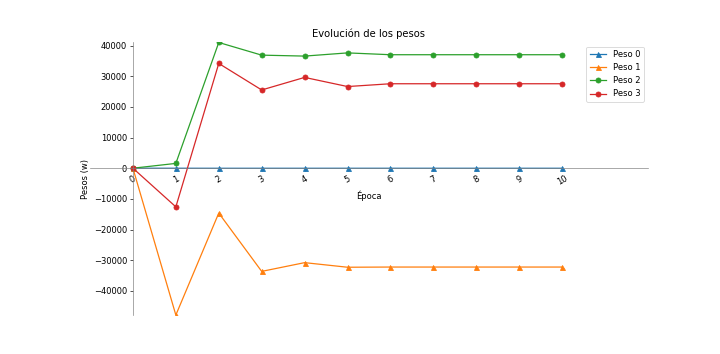
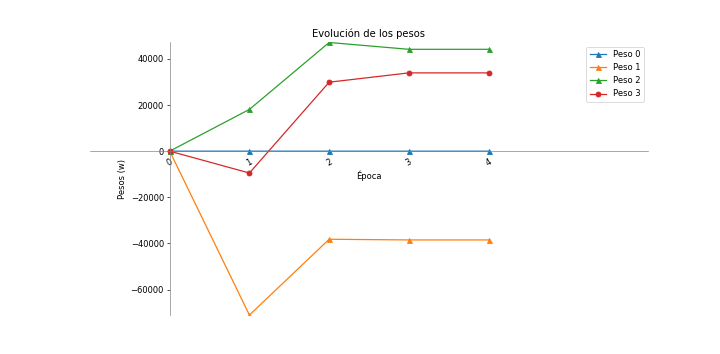
[UPDATE] break for to tolerance implementes comment and update axles graphic

diff --git a/src/interfaces/graphics_view.py b/src/interfaces/graphics_view.py
@@ -17,6 +17,11 @@ def graphic_norm(frame, canvas, errors):
     ax.spines['bottom'].set_position('zero')
     ax.spines['bottom'].set_color('gray')
     ax.plot(eras, errors, label='Errores', marker='s', linestyle='-', color='red')
+    ax.set_xlim((0 - 1), (len(eras) + 1))
+    if min(errors) >= 0:
+        ax.set_ylim((0 - 1), (max(errors) + 1))
+    else:
+        ax.set_ylim((min(errors) - 1), (max(errors) + 1))
     ax.set_xticks(range(len(errors)), labels=eras, rotation=30)
     ax.set_title('Evolución de la norma del error')
     ax.set_xlabel('Época')
@@ -43,7 +48,7 @@ def graphic_w(frame, canvas, w_eras):
     output_folder = 'graphics/'
     os.makedirs(output_folder, exist_ok=True)
     eras = list(range(0, len(w_eras)))
-    w = np.squeeze(np.array(w_eras))
+    w = np.array([v[0] for v in w_eras])
     fig, ax = plt.subplots(figsize=(12, 5.9), dpi=60)
     ax.spines['left'].set_position('zero')
     ax.spines['left'].set_color('gray')

diff --git a/src/algorithms/perceptron.py b/src/algorithms/perceptron.py
@@ -9,7 +9,8 @@ def execute_perceptron(data):
     w = initializer_w(matrix)
     w_eras = [w]
     errors = []
-    for _ in range(data["eras"]):
+    # iterations = 0
+    for era in range(data["eras"]):
         u = get_u(w, matrix)
         yc = function_activation_step(u)
         e = calculate_error(yd, yc)
@@ -18,9 +19,12 @@ def execute_perceptron(data):
         errors.append(norm)
         w = update_w(w, delta_w)
         w_eras.append(w)
-
+        # iterations = era
+        # if norm <= data["tolerance"]:
+        #     break
     info = {
         "eras": data["eras"],
+        # "eras_error": iterations,
         "tolerance": data["tolerance"],
         "eta": data["eta"],
         "w_initial": w_eras[0],

diff --git a/src/interfaces/output_view.py b/src/interfaces/output_view.py
@@ -15,6 +15,7 @@ def output(frame, info):
                 f"Eta: {info['eta']} \n" \
                 f"Épocas: {info['eras']}\n" \
                 f"Tolerancia: {info['tolerance']}\n"
+    # f"Épocas hasta sin error: {info['eras_error']}\n" \
     scrollbar = tk.Scrollbar(output_frame, orient=tk.VERTICAL)
     output_text = tk.Text(output_frame, wrap=tk.WORD, yscrollcommand=scrollbar.set, bg='black', fg='white')
     output_text.insert(tk.END, info_text)
